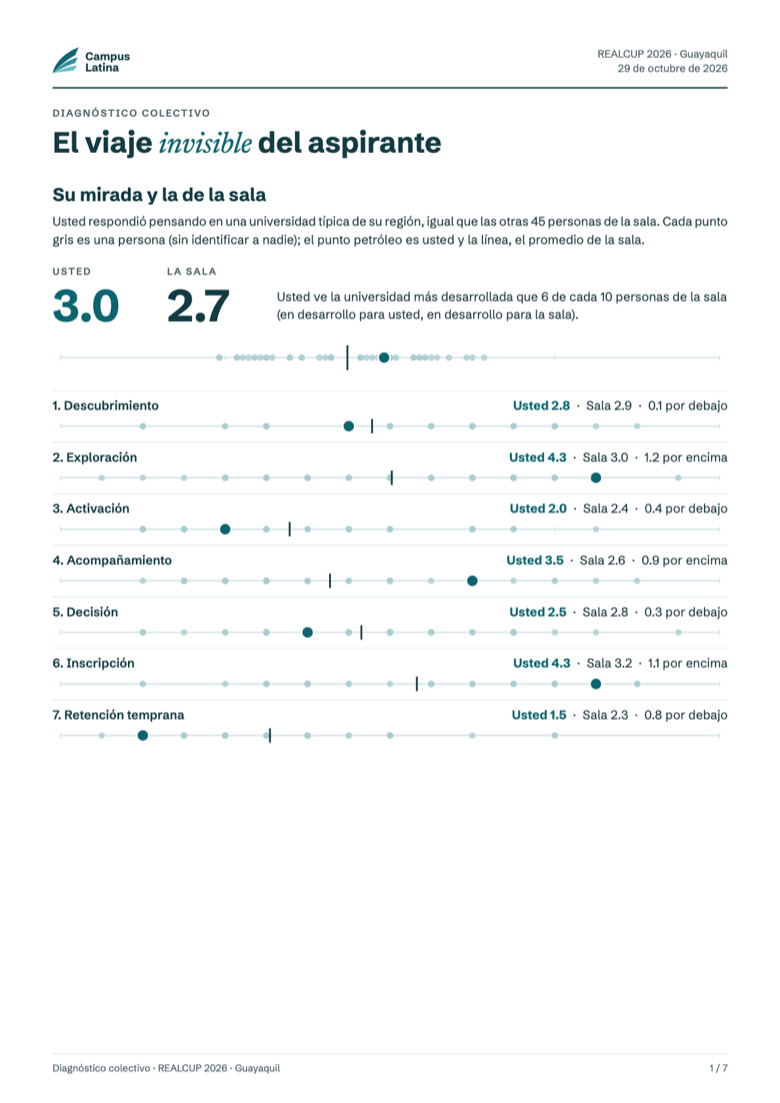
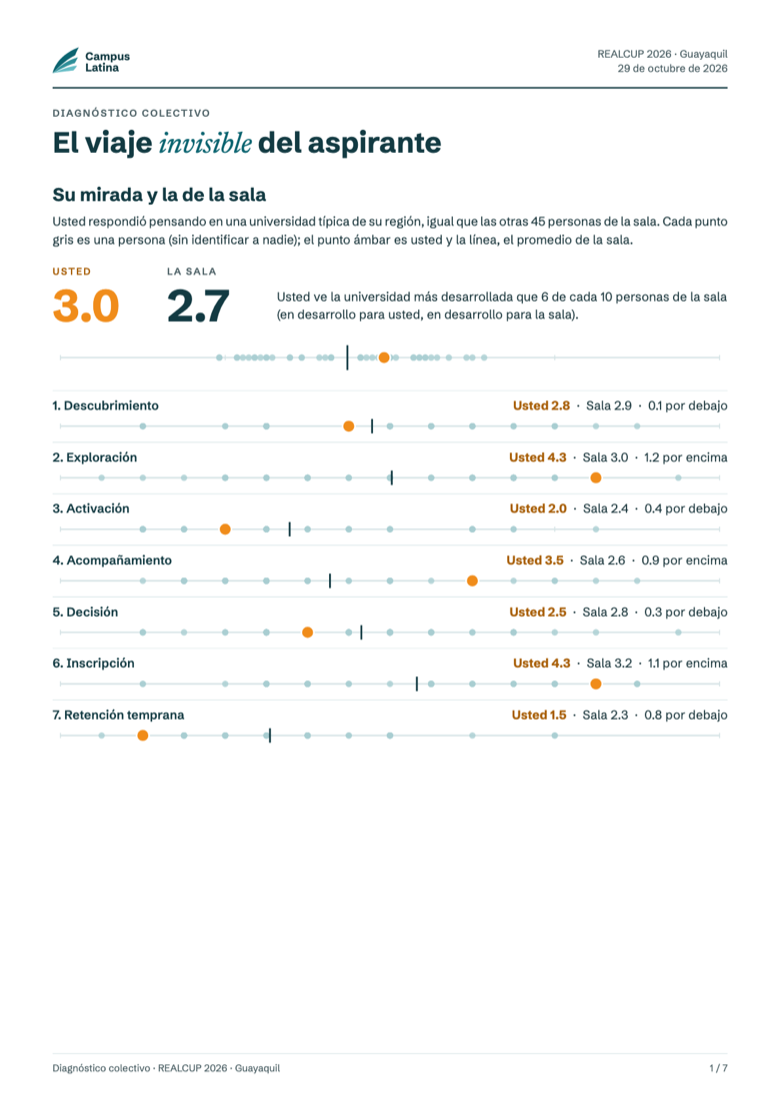
Taller PDF: «Usted» en ámbar y menos aclaraciones
En «Su mirada y la de la sala» el número propio, su punto en cada línea y los «Usted» de
cada etapa pasan a ámbar, para que se distingan de la sala a primera vista. Una sola nota
de «ilustración» en el recorrido y sin repetir la frase en cada etapa.

diff --git a/netlify/lib/pdfTaller.js b/netlify/lib/pdfTaller.js
@@ -25,7 +25,7 @@ Font.register({ family: "Schibsted", fonts: [
 Font.register({ family: "Newsreader", fonts: [{ src: F.NEWSREADER_ITALIC, fontStyle: "italic" }] });
 Font.registerHyphenationCallback((w) => [w]); // no cortar palabras con guiones
 
-const C = { petroleo: "#0B6470", profundo: "#123A42", noche: "#0A2329", texto: "#1F3A40", gris: "#4D6166", linea: "#D5E3E5", bruma: "#EAF3F4", coral: "#F08C1A", coralSuave: "#FFCF8A", punto: "#A8CDD1" };
+const C = { petroleo: "#0B6470", profundo: "#123A42", noche: "#0A2329", texto: "#1F3A40", gris: "#4D6166", linea: "#D5E3E5", bruma: "#EAF3F4", coral: "#F08C1A", coralSuave: "#FFCF8A", punto: "#A8CDD1", ambarTexto: "#A85F08" }; // coral = ámbar (destaque); ambarTexto, el mismo en texto chico
 const ANCHO = 515; // ancho útil de la hoja A4 con márgenes de 40 pt
 
 const s = StyleSheet.create({
@@ -71,7 +71,7 @@ function Ubicacion({ yo, sala, todos, ancho = ANCHO, alto = 18 }) {
     ...[1, 2, 3, 4, 5].map((v) => h(Line, { key: `t${v}`, x1: x(v), x2: x(v), y1: alto / 2 - 2, y2: alto / 2 + 2, stroke: C.linea, strokeWidth: 0.8 })),
     ...todos.map((v, i) => h(Circle, { key: i, cx: x(v), cy: alto / 2, r: 2.4, fill: C.punto, fillOpacity: 0.8 })),
     sala != null && h(Line, { x1: x(sala), x2: x(sala), y1: 1.5, y2: alto - 1.5, stroke: C.profundo, strokeWidth: 1.4 }),
-    yo != null && h(Circle, { cx: x(yo), cy: alto / 2, r: 4.6, fill: C.petroleo, stroke: "#FFFFFF", strokeWidth: 1.2 }));
+    yo != null && h(Circle, { cx: x(yo), cy: alto / 2, r: 4.8, fill: C.coral, stroke: "#FFFFFF", strokeWidth: 1.2 }));
 }
 
 function Barra({ valor, potencial, resaltar }) {
@@ -120,7 +120,7 @@ function RecorridoPagina({ mia, dx }) {
   ].filter(Boolean);
   return h(View, null,
     h(Text, { style: s.h2 }, "El recorrido del aspirante"),
-    h(Text, { style: s.parrafo }, "Lo mismo que se vio en la pantalla del salón. En cada etapa el haz se angosta según el puntaje: en gris, los aspirantes que quedan en el camino; en ámbar, los que llegan a inscribirse. Es ilustrativo: muestra el efecto del puntaje en el camino, no es una medición."),
+    h(Text, { style: s.parrafo }, "Lo mismo que se vio en la pantalla del salón: en cada etapa el haz se angosta según el puntaje. En gris, los aspirantes que quedan en el camino; en ámbar, los que llegan. Es una ilustración, no una medición."),
     h(View, { style: { position: "relative", height: 18, marginTop: 14, width: ANCHO } },
       ...ETAPAS_DATA.map((e, i) => h(Text, { key: e.id, style: { position: "absolute", left: posEtapa(i) * ANCHO - 34, width: 68, textAlign: "center", fontSize: 6.5, color: C.gris } }, `${e.num}. ${e.name}`))),
     ...filas.map((f) => h(View, { key: f.titulo, style: { marginTop: 10 }, wrap: false },
@@ -141,7 +141,7 @@ function EtapasPagina({ mia, dx }) {
       return h(View, { key: e.id, style: { marginTop: 12, borderTopWidth: 0.6, borderTopColor: C.linea, paddingTop: 7 }, wrap: false },
         h(View, { style: { flexDirection: "row", justifyContent: "space-between", alignItems: "baseline" } },
           h(Text, { style: { fontWeight: 700, fontSize: 11, color: C.profundo } }, `${e.num}. ${e.name}  `, h(Text, { style: { ...s.cursiva, fontSize: 10, color: C.petroleo } }, e.pregunta)),
-          h(Text, null, yo != null ? h(Text, { style: { fontWeight: 700, color: C.petroleo } }, `Usted ${fmt1(yo)}  ·  `) : null, h(Text, { style: { fontWeight: 700 } }, `Sala ${e.puntaje == null ? "—" : fmt1(e.puntaje)}`))),
+          h(Text, null, yo != null ? h(Text, { style: { fontWeight: 700, color: C.ambarTexto } }, `Usted ${fmt1(yo)}  ·  `) : null, h(Text, { style: { fontWeight: 700 } }, `Sala ${e.puntaje == null ? "—" : fmt1(e.puntaje)}`))),
         h(View, { style: { flexDirection: "row", marginTop: 5 } },
           h(View, { style: { flex: 3, marginRight: 16 } },
             h(Text, { style: s.etiqueta }, "Qué se mide"),
@@ -151,9 +151,9 @@ function EtapasPagina({ mia, dx }) {
             e.puntaje == null
               ? h(Text, { style: { ...s.parrafo, marginTop: 2 } }, "La sala no respondió esta etapa.")
               : h(Text, { style: { ...s.parrafo, marginTop: 2 } },
-                "En esta sala la etapa está en nivel ",
+                "En esta sala, nivel ",
                 h(Text, { style: { fontWeight: 700, color: C.profundo } }, getNivel(e.puntaje).label.toLowerCase()),
-                e.num < 7 ? ". Lo que se pierde acá ya no llega a la etapa siguiente." : ". Lo que se pierde acá ya se había inscripto.",
+                ".",
                 dx.fuga?.id === e.id ? h(Text, { style: { fontWeight: 700, color: C.profundo } }, " Es la etapa donde más se pierden aspirantes.") : null))));
     }));
 }
@@ -162,9 +162,9 @@ function SuMirada({ mia, n }) {
   const etapas = mia.etapas.filter((e) => e.yo != null);
   return h(View, null,
     h(Text, { style: s.h2 }, "Su mirada y la de la sala"),
-    h(Text, { style: s.parrafo }, `Usted respondió pensando en una universidad típica de su región, igual que las otras ${n - 1} personas de la sala. Cada punto gris es una persona (sin identificar a nadie); el punto petróleo es usted y la línea, el promedio de la sala.${mia.respondidas < 7 ? ` La comparación es solo en ${mia.respondidas === 1 ? "la etapa que respondió" : `las ${mia.respondidas} etapas que respondió`}.` : ""}`),
+    h(Text, { style: s.parrafo }, `Usted respondió pensando en una universidad típica de su región, igual que las otras ${n - 1} personas de la sala. Cada punto gris es una persona (sin identificar a nadie); el punto ámbar es usted y la línea, el promedio de la sala.${mia.respondidas < 7 ? ` La comparación es solo en ${mia.respondidas === 1 ? "la etapa que respondió" : `las ${mia.respondidas} etapas que respondió`}.` : ""}`),
     h(View, { style: { flexDirection: "row", marginTop: 12, alignItems: "flex-end" } },
-      h(View, { style: { marginRight: 36 } }, h(Text, { style: s.etiqueta }, "Usted"), h(Text, { style: { fontSize: 34, fontWeight: 700, color: C.petroleo } }, fmt1(mia.yo))),
+      h(View, { style: { marginRight: 36 } }, h(Text, { style: { ...s.etiqueta, color: C.ambarTexto } }, "Usted"), h(Text, { style: { fontSize: 34, fontWeight: 700, color: C.coral } }, fmt1(mia.yo))),
       h(View, { style: { marginRight: 36 } }, h(Text, { style: s.etiqueta }, "La sala"), h(Text, { style: { fontSize: 34, fontWeight: 700, color: C.profundo } }, fmt1(mia.sala))),
       mia.ubicacion != null && h(Text, { style: { ...s.parrafo, flex: 1, marginBottom: 6 } }, `Usted ve la universidad más desarrollada que ${Math.round(mia.ubicacion * 10)} de cada 10 personas de la sala (${getNivel(mia.yo).label.toLowerCase()} para usted, ${getNivel(mia.sala).label.toLowerCase()} para la sala).`)),
     h(View, { style: { marginTop: 8 } }, h(Ubicacion, { yo: mia.yo, sala: mia.sala, todos: mia.todos, alto: 22 })),
@@ -172,7 +172,7 @@ function SuMirada({ mia, n }) {
       ...etapas.map((e) => h(View, { key: e.id, style: { ...s.fila, flexDirection: "column", alignItems: "stretch" }, wrap: false },
         h(View, { style: { flexDirection: "row", justifyContent: "space-between" } },
           h(Text, { style: { fontWeight: 600, color: C.profundo } }, `${e.num}. ${e.name}`),
-          h(Text, null, h(Text, { style: { fontWeight: 700, color: C.petroleo } }, `Usted ${fmt1(e.yo)}`), `  ·  Sala ${fmt1(e.sala)}  ·  ${diferencia(e.yo, e.sala)}`)),
+          h(Text, null, h(Text, { style: { fontWeight: 700, color: C.ambarTexto } }, `Usted ${fmt1(e.yo)}`), `  ·  Sala ${fmt1(e.sala)}  ·  ${diferencia(e.yo, e.sala)}`)),
         h(View, { style: { marginTop: 3 } }, h(Ubicacion, { yo: e.yo, sala: e.sala, todos: e.todos, alto: 14 }))))));
 }
 
